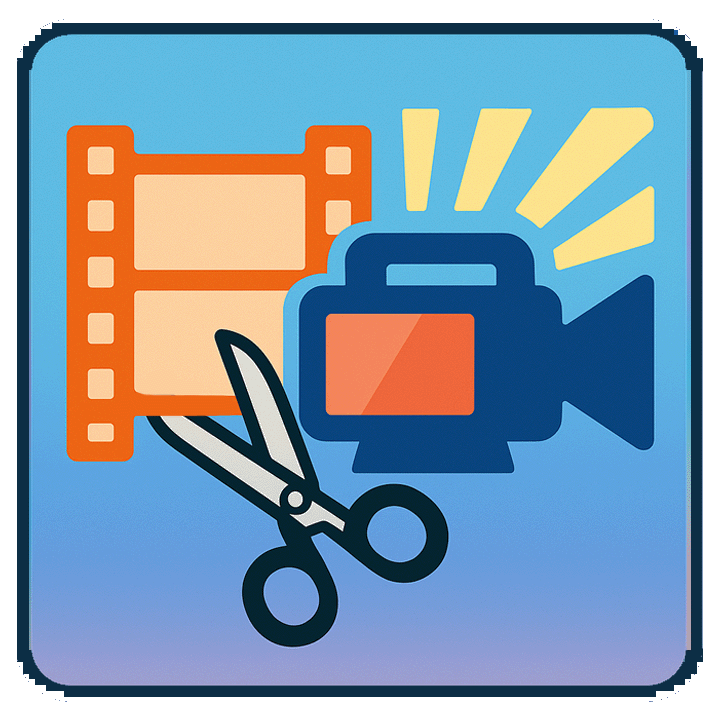
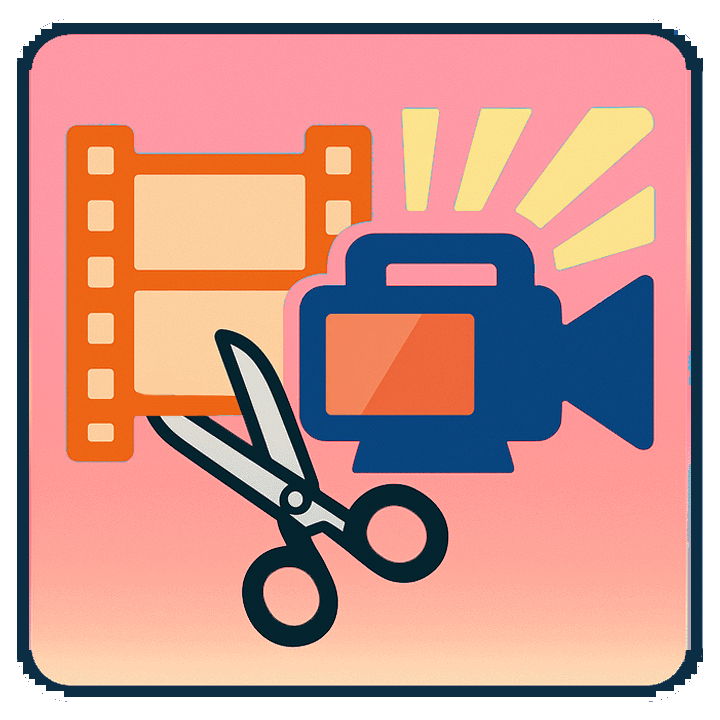
Resume Update 2026 and landing page updates

diff --git a/assets/desktop.js b/assets/desktop.js
@@ -34,6 +34,7 @@ document.addEventListener("DOMContentLoaded", () => {
     "#file-explorer-window",
     "#music-player",
     "#readme-window",
+    "#resume-window",
     "#snake-window",
   ].forEach(sel => {
     const el = document.querySelector(sel);
@@ -786,6 +787,92 @@ function stopDragReadme() {
 if (readmeIcon) {
   readmeIcon.ondblclick = openReadme;
 }
+
+// ==============================
+// RESUME WINDOW
+// ==============================
+const resumeWin        = document.getElementById("resume-window");
+const resumeIcon       = document.getElementById("resume-icon");
+const resumeClose      = document.getElementById("resume-close");
+const resumeMinBtn     = document.getElementById("resume-minimize");
+const resumeTab        = document.getElementById("resume-tab");
+const resumeDragHandle = document.getElementById("resume-drag-handle");
+
+let isResumeDragging  = false;
+let resumeOffsetX     = 0, resumeOffsetY = 0;
+let isResumeMinimized = false;
+
+function openResume() {
+  bringToFront(resumeWin);
+  resumeWin.style.display = "flex";
+  if (resumeTab) resumeTab.style.display = "inline-flex";
+  isResumeMinimized = false;
+}
+
+function closeResume() {
+  resumeWin.style.display = "none";
+  if (resumeTab) resumeTab.style.display = "none";
+  isResumeMinimized = false;
+}
+
+function minimizeResume() {
+  resumeWin.style.display = "none";
+  isResumeMinimized = true;
+  if (resumeTab) resumeTab.style.display = "inline-flex";
+}
+
+if (resumeClose)  resumeClose.onclick  = closeResume;
+if (resumeMinBtn) resumeMinBtn.onclick = minimizeResume;
+
+if (resumeTab) {
+  resumeTab.onclick = () => {
+    if (isResumeMinimized || resumeWin.style.display === "none") {
+      resumeWin.style.display = "flex";
+      isResumeMinimized = false;
+      bringToFront(resumeWin);
+    } else {
+      minimizeResume();
+    }
+  };
+}
+
+if (resumeIcon) {
+  resumeIcon.addEventListener("dblclick", openResume);
+}
+
+// Scale-aware drag for resume window
+(function() {
+  function getScale() {
+    const root = document.getElementById("desktop-root");
+    return root ? (new DOMMatrix(getComputedStyle(root).transform)).a || 1 : 1;
+  }
+  resumeDragHandle.addEventListener("mousedown", (e) => {
+    if (e.target.closest(".readme-win-btns")) return;
+    const scale = getScale();
+    const rect  = resumeWin.getBoundingClientRect();
+    resumeOffsetX = (e.clientX - rect.left) / scale;
+    resumeOffsetY = (e.clientY - rect.top)  / scale;
+    isResumeDragging = true;
+    document.addEventListener("mousemove", onResumeDrag);
+    document.addEventListener("mouseup",   stopResumeDrag);
+    e.preventDefault();
+  });
+  function onResumeDrag(e) {
+    if (!isResumeDragging) return;
+    const scale    = getScale();
+    const rootRect = document.getElementById("desktop-root").getBoundingClientRect();
+    resumeWin.style.left = `${(e.clientX - rootRect.left) / scale - resumeOffsetX}px`;
+    resumeWin.style.top  = `${(e.clientY - rootRect.top)  / scale - resumeOffsetY}px`;
+  }
+  function stopResumeDrag() {
+    isResumeDragging = false;
+    document.removeEventListener("mousemove", onResumeDrag);
+    document.removeEventListener("mouseup",   stopResumeDrag);
+  }
+})();
+// ==============================
+// END RESUME WINDOW
+// ==============================
 
 function openConsistency() {
   bringToFront(document.getElementById("browser-window"));

diff --git a/assets/desktop.css b/assets/desktop.css
@@ -5657,3 +5657,51 @@ html,body{height:100%;width:100%;margin:0;padding:0;overflow:hidden;background:#
   margin-bottom: 3px;
 }
 
+
+/* ==============================
+   RESUME WINDOW
+   ============================== */
+.resume-window {
+  position: absolute;
+  width: 660px;
+  height: 520px;
+  top: 8%;
+  left: 18%;
+  background: #ece9d8;
+  border: 2px solid #0054e3;
+  box-shadow: 4px 4px 0 #000, inset 1px 1px 0 #fff;
+  z-index: 100;
+  display: flex;
+  flex-direction: column;
+  font-family: Tahoma, sans-serif;
+  overflow: hidden;
+}
+
+.resume-window .title-bar {
+  background: linear-gradient(to bottom, #0058ee 0%, #3a93ff 4%, #2076e0 8%, #1260c4 92%, #0038a8 100%);
+  color: #fff;
+  padding: 4px 6px;
+  display: flex;
+  justify-content: space-between;
+  align-items: center;
+  height: 28px;
+  flex-shrink: 0;
+  text-shadow: 1px 1px 1px rgba(0,0,0,0.4);
+  cursor: default;
+  user-select: none;
+}
+
+.resume-body {
+  flex: 1;
+  display: flex;
+  flex-direction: column;
+  overflow: hidden;
+  background: #fff;
+}
+
+#resume-iframe {
+  width: 100%;
+  flex: 1;
+  border: none;
+  display: block;
+}

diff --git a/desktop.html b/desktop.html
@@ -34,6 +34,10 @@
         <img alt="" src="assets/folder.png" />
         <div class="icon-name">Projects</div>
       </div>
+      <div class="icon resume-icon" id="resume-icon">
+        <img alt="" src="assets/resume.png" />
+        <div class="icon-name">Resume</div>
+      </div>
       <div class="icon consistency" onclick="openConsistency()">
         <img alt="" src="assets/youtube.png" />
         <div class="icon-name">Consistency</div>
@@ -134,6 +138,9 @@
   </div>
   <div class="open-tab" id="projects-tab" style="display: none;">
   <img src="assets/project.png" />Projects
+  </div>
+  <div class="open-tab" id="resume-tab" style="display: none;">
+    <img src="assets/Resume.png" />Resume
   </div>
   <div class="open-tab" id="snake-tab" style="display: none;">
     <img src="assets/snek.png" />Snake
@@ -248,6 +255,38 @@ Thanks for stopping by :3
   </div>
 </div>
 <!-- END README.TXT WINDOW -->
+
+<!-- RESUME WINDOW -->
+<div class="resume-window window" id="resume-window" style="display: none;">
+  <div class="title-bar" id="resume-drag-handle">
+    <div class="readme-titlebar-left">
+      <img src="assets/resume.png" class="readme-title-icon" alt="" />
+      <span>Conor_McCutcheon_Resume.pdf</span>
+    </div>
+    <div class="readme-win-btns">
+      <button class="readme-win-btn readme-win-min" id="resume-minimize">─</button>
+      <button class="readme-win-btn readme-win-close" id="resume-close">✕</button>
+    </div>
+  </div>
+  <div class="readme-menubar">
+    <span class="readme-menu-item">File</span>
+    <span class="readme-menu-item">Edit</span>
+    <span class="readme-menu-item">View</span>
+    <span class="readme-menu-item">Help</span>
+  </div>
+  <div class="resume-body">
+    <iframe
+      id="resume-iframe"
+      src="assets/resume2026.pdf"
+      title="Resume"
+    ></iframe>
+  </div>
+  <div class="readme-statusbar" style="padding: 2px 8px; font-size: 11px; background: #d4d0c8; border-top: 1px solid #808080; display: flex; justify-content: space-between;">
+    <span>Conor McCutcheon — Resume</span>
+    <span>PDF</span>
+  </div>
+</div>
+<!-- END RESUME WINDOW -->
 
 <!-- MUSIC PLAYER WINDOW -->
 <div class="music-player" id="music-player" style="display: none;">